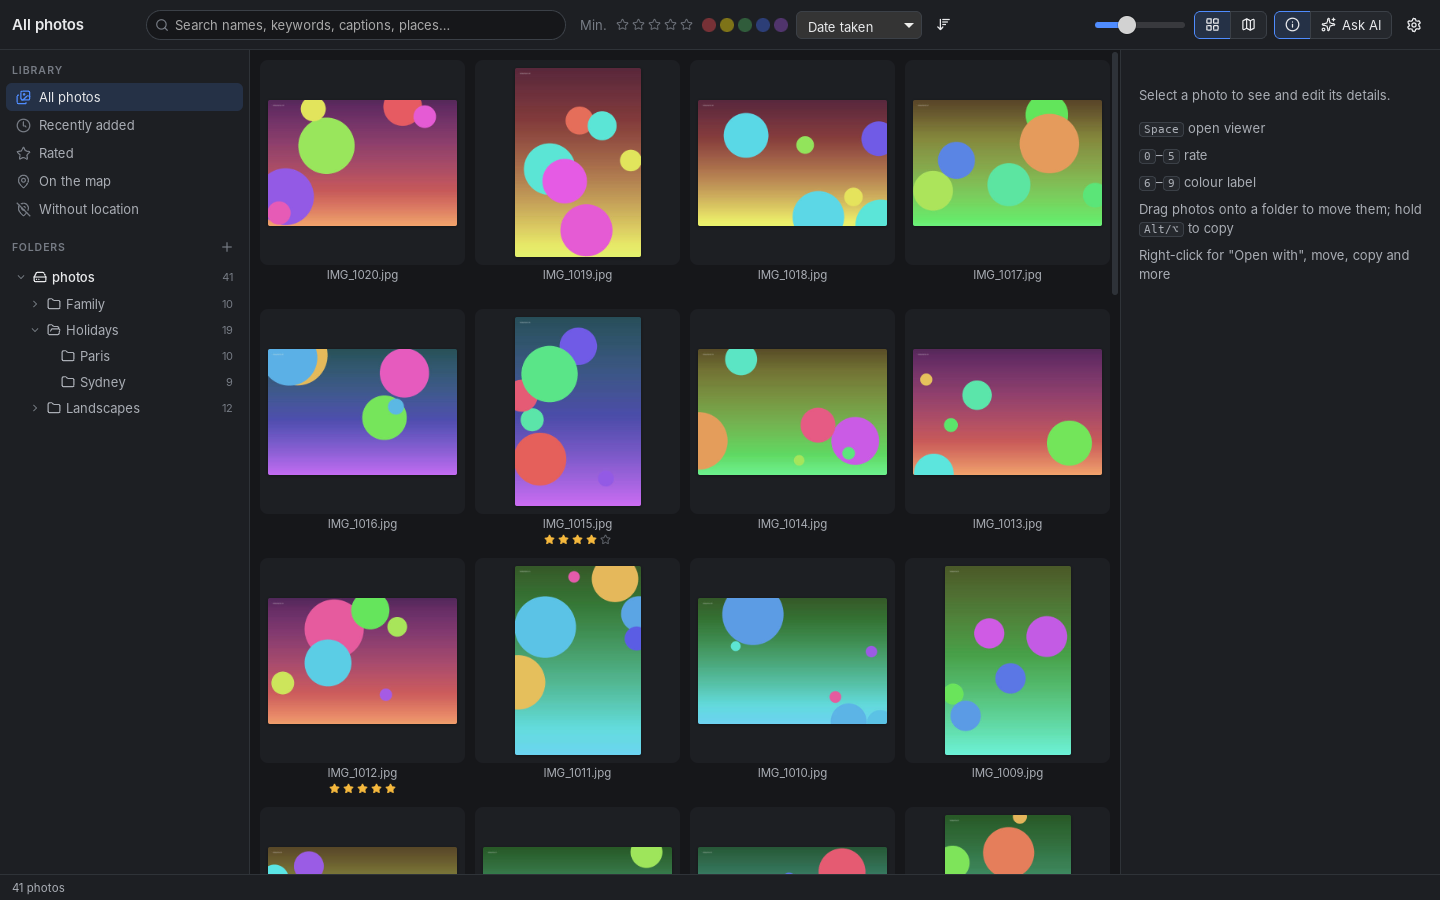
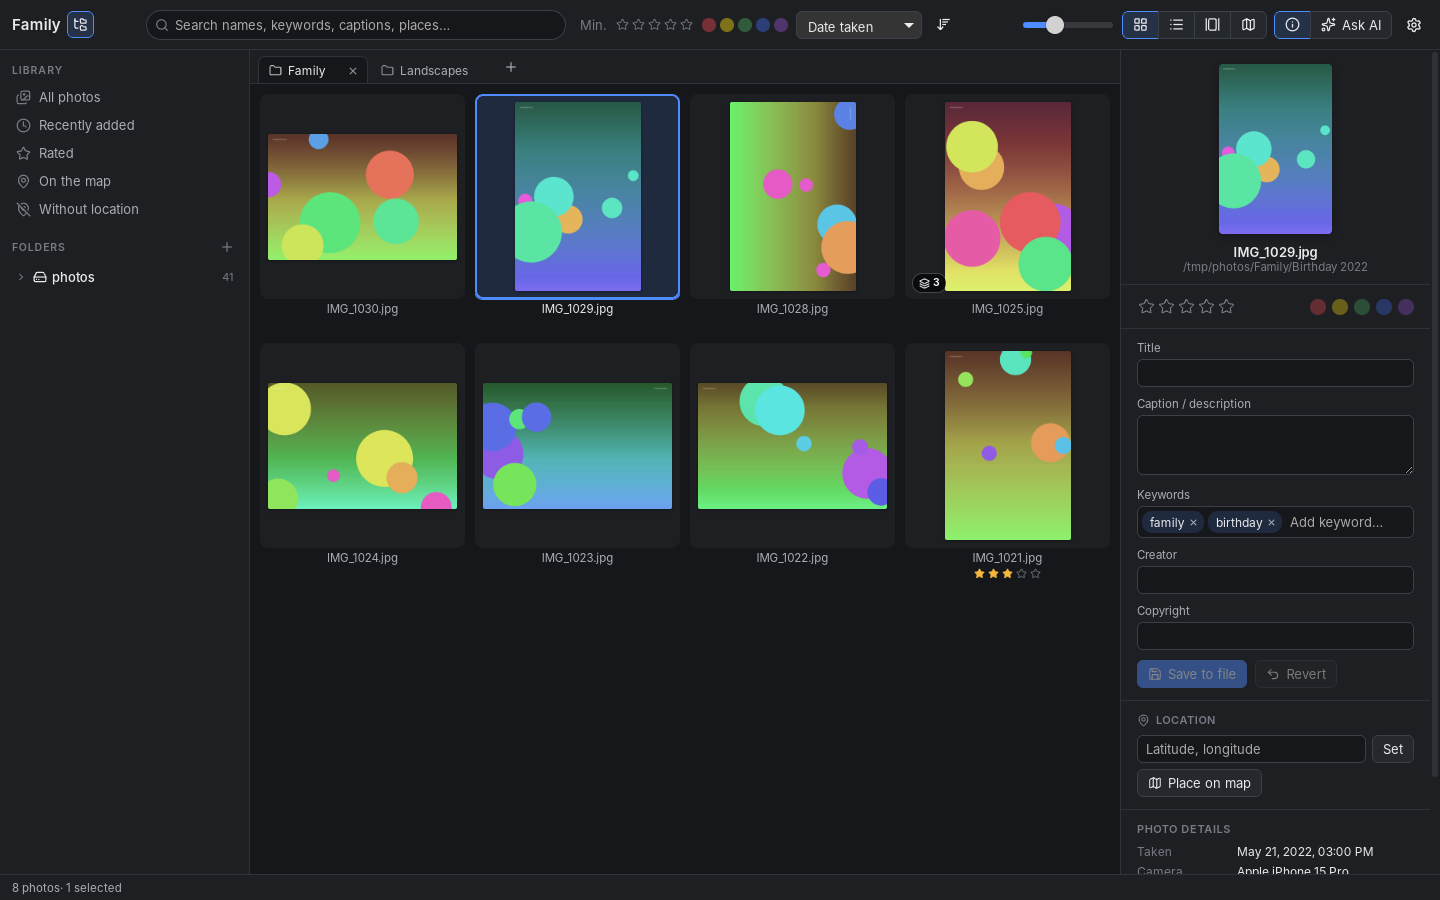
README: tidy the introduction, add Views and Tabs rows, new screenshot
Move the personal story into 'Why I built Lumio', fix typos and paragraph
breaks, describe what leaves the computer accurately, and name Light and
Alley as copyright holder alongside the contributors.

Claude-Session: https://claude.ai/code/session_01Wmt48GGDGwwFAdosS2VREQ

diff --git a/README.md b/README.md
@@ -2,22 +2,27 @@
 
 **A lightweight, open-source photo browser and digital asset manager for macOS, Windows and Linux.**
 
-Lumio is for photographers who want something simple: After trying the bloated Abode and other open-source alternatives like Digikam, I wanted to build something lightweight that does not easily crash.
-Adobe Bridge is available for free. However, you are forced to install Creative Cloud software, create an Adobe account, and sign in with it, even if you do not have a subscription, and your data is not secure. Digikam is an excellent program. However, the experience is often frustrating for two reasons. It crashes too often, and indexing a large library like mine (>55,000 photos) can take days, especially if it is on a network drive. 
-So I created something simple: browse folders of photos on your computer, external drives, and network drives; rate and tag them; put them on a map; and find them again without importing them into a heavy catalog or editing suite. Lumio doesn't edit pixels. It hands photos to the editor you already use and retrieves the result when you save.
-What it does well is organize your library. You can connect your external drives, SD cards, etc., and import photos. Organize your large library, move photos in bulk, create a structure, rate photos, and create photo groups. 
-This software is open source and can be used and modified as you wish. It does not collect your data, displays no advertisements, and poses no security risks. Let me know if you encounter any issues. I will try to fix them in my free time. I have a full-time, very different day job. Please also feel free to use and change the software, fix any bugs, and share it so everyone benefits. Please also share feedback and any suggestions for improvement. Please be patient with me; I am just a hobbyist.  
-If you would like to work on this project, please connect. If you can also support this, I can get more help and time.
-
+Lumio is for photographers who want something simple: browse folders of photos on your computer, external drives and network drives, rate and tag them, group them, put them on a map, and find them again, without importing them into a heavy catalogue or editing suite. Lumio doesn't edit pixels. It hands photos to the editor you already use and picks up the result when you save.
 
 ![Lumio](docs/screenshot.png)
+
+## Why I built Lumio
+
+I wanted a simple way to organise a large photo library, and the tools I tried didn't suit me.
+
+Adobe Bridge is free, but I didn't want to install Creative Cloud, create an Adobe account and sign in just to browse my own photos. digiKam is an excellent program, but it crashed often for me, and indexing my library of more than 55,000 photos on a network drive took days.
+
+So I built something lightweight that does one job well: organising your library. Add folders from your computer, external drives or network drives, move photos in bulk between them, build a folder structure, rate photos and group shots of the same subject.
+
+Lumio is open source. You can use it, change it and share it. It has no account, no advertisements and no tracking. Nothing leaves your computer unless you use the map (which loads OpenStreetMap tiles) or switch on the AI photo finder.
 
 ## Features
 
 | | |
 |---|---|
 | **Browse** | Fast thumbnail grid for very large folders, a folder tree, smart views (recently added, rated, on the map, without location), search by name, keyword, caption, place, camera or lens, and filters for rating and colour label. |
-| **Browse** | Open folders in tabs within the application and move files between the tabs. |
+| **Views** | Thumbnail grid, a sortable list, and a filmstrip view with one large photo above a strip of thumbnails (`G`, `L`, `F` keys). |
+| **Tabs** | Open folders in tabs inside the app (`⌘T` / `Ctrl+T`) and drag photos from one tab to another to move them. |
 | **Offline thumbnails** | Lumio keeps a small catalogue and thumbnail cache on your computer, so folders on unplugged external or network drives can still be browsed. They're shown with a "drive not connected" badge. |
 | **Viewer** | Full-screen viewer with zoom and pan and a **black / grey / light grey / white** background switch (press `B`). |
 | **Ratings & labels** | 0–5 stars (`0`–`5` keys) and colour labels (`6`–`9`), written into the photo as standard XMP so Lightroom, Bridge, digiKam, Capture One and darktable see them too. |
@@ -92,10 +97,13 @@ To build installers for all three systems at once, push the repository to GitHub
   - `ai.rs`: the AI finder (Claude Messages API with tool use, or any OpenAI-compatible server)
 - **Svelte 5 + TypeScript** front end in `src/`, with [Leaflet](https://leafletjs.com) for maps and [Lucide](https://lucide.dev) icons.
 
-## Contributing
+## Contributing and support
 
-Issues and pull requests are welcome. Please keep Lumio light: no pixel editing, no heavy dependencies, and every change that touches files should be safe on external and network drives.
+Lumio is a hobby project. I have a full-time and very different day job, so I fix things in my free time and replies can be slow.
 
-## Credits & licence - © Light and Alley
+- **Found a problem or have an idea?** Open an [issue](https://github.com/alahmedmadina/Lumio/issues). Feedback and suggestions are welcome.
+- **Want to work on Lumio?** Pull requests are welcome, and so are people who would like to help maintain it. Open an issue to say hello. Please keep Lumio light: no pixel editing, no heavy dependencies, and every change that touches files should be safe on external and network drives.
 
-Lumio is MIT licensed (see `LICENSE`). It bundles [ExifTool](https://exiftool.org) by Phil Harvey (Perl Artistic Licence / GPL). Map data © [OpenStreetMap](https://www.openstreetmap.org/copyright) contributors. Feature ideas were inspired by digiKam and Adobe Bridge; Lumio shares no code or design with them.
+## Credits & licence
+
+Lumio is © Light and Alley and the Lumio contributors, and is MIT licensed (see `LICENSE`). It bundles [ExifTool](https://exiftool.org) by Phil Harvey (Perl Artistic Licence / GPL). Map data © [OpenStreetMap](https://www.openstreetmap.org/copyright) contributors. Feature ideas were inspired by digiKam and Adobe Bridge; Lumio shares no code or design with them.
